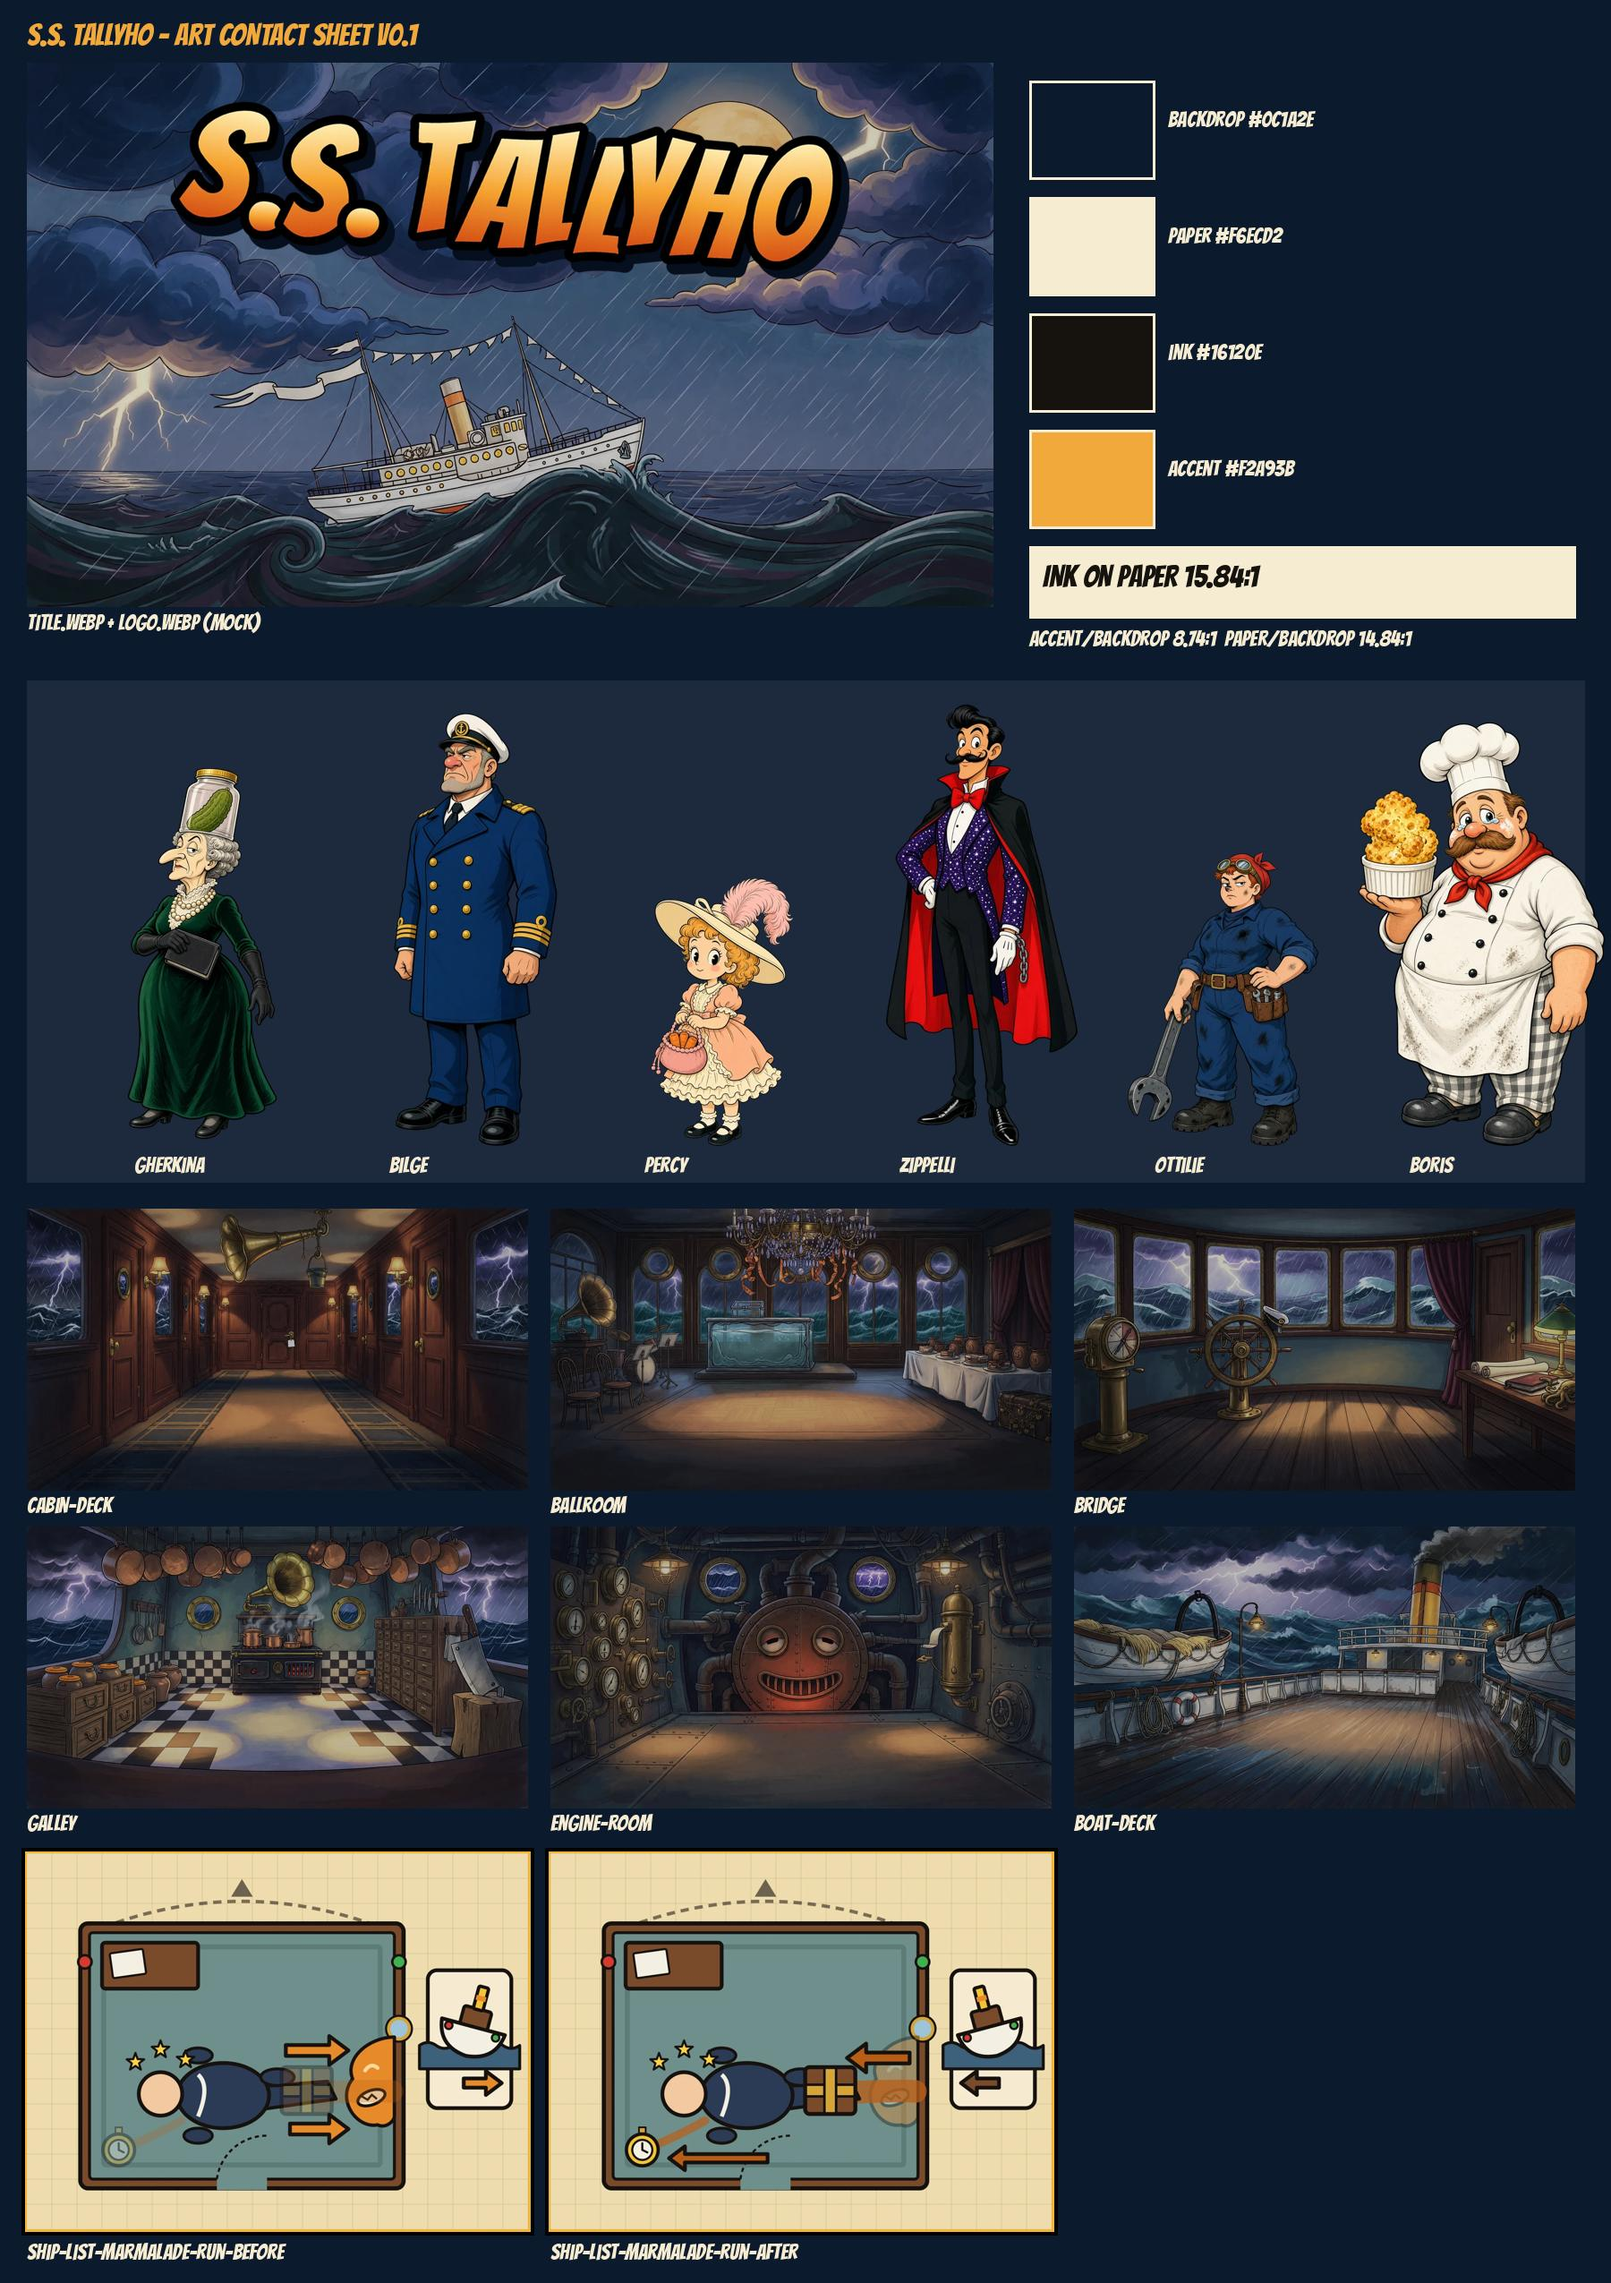
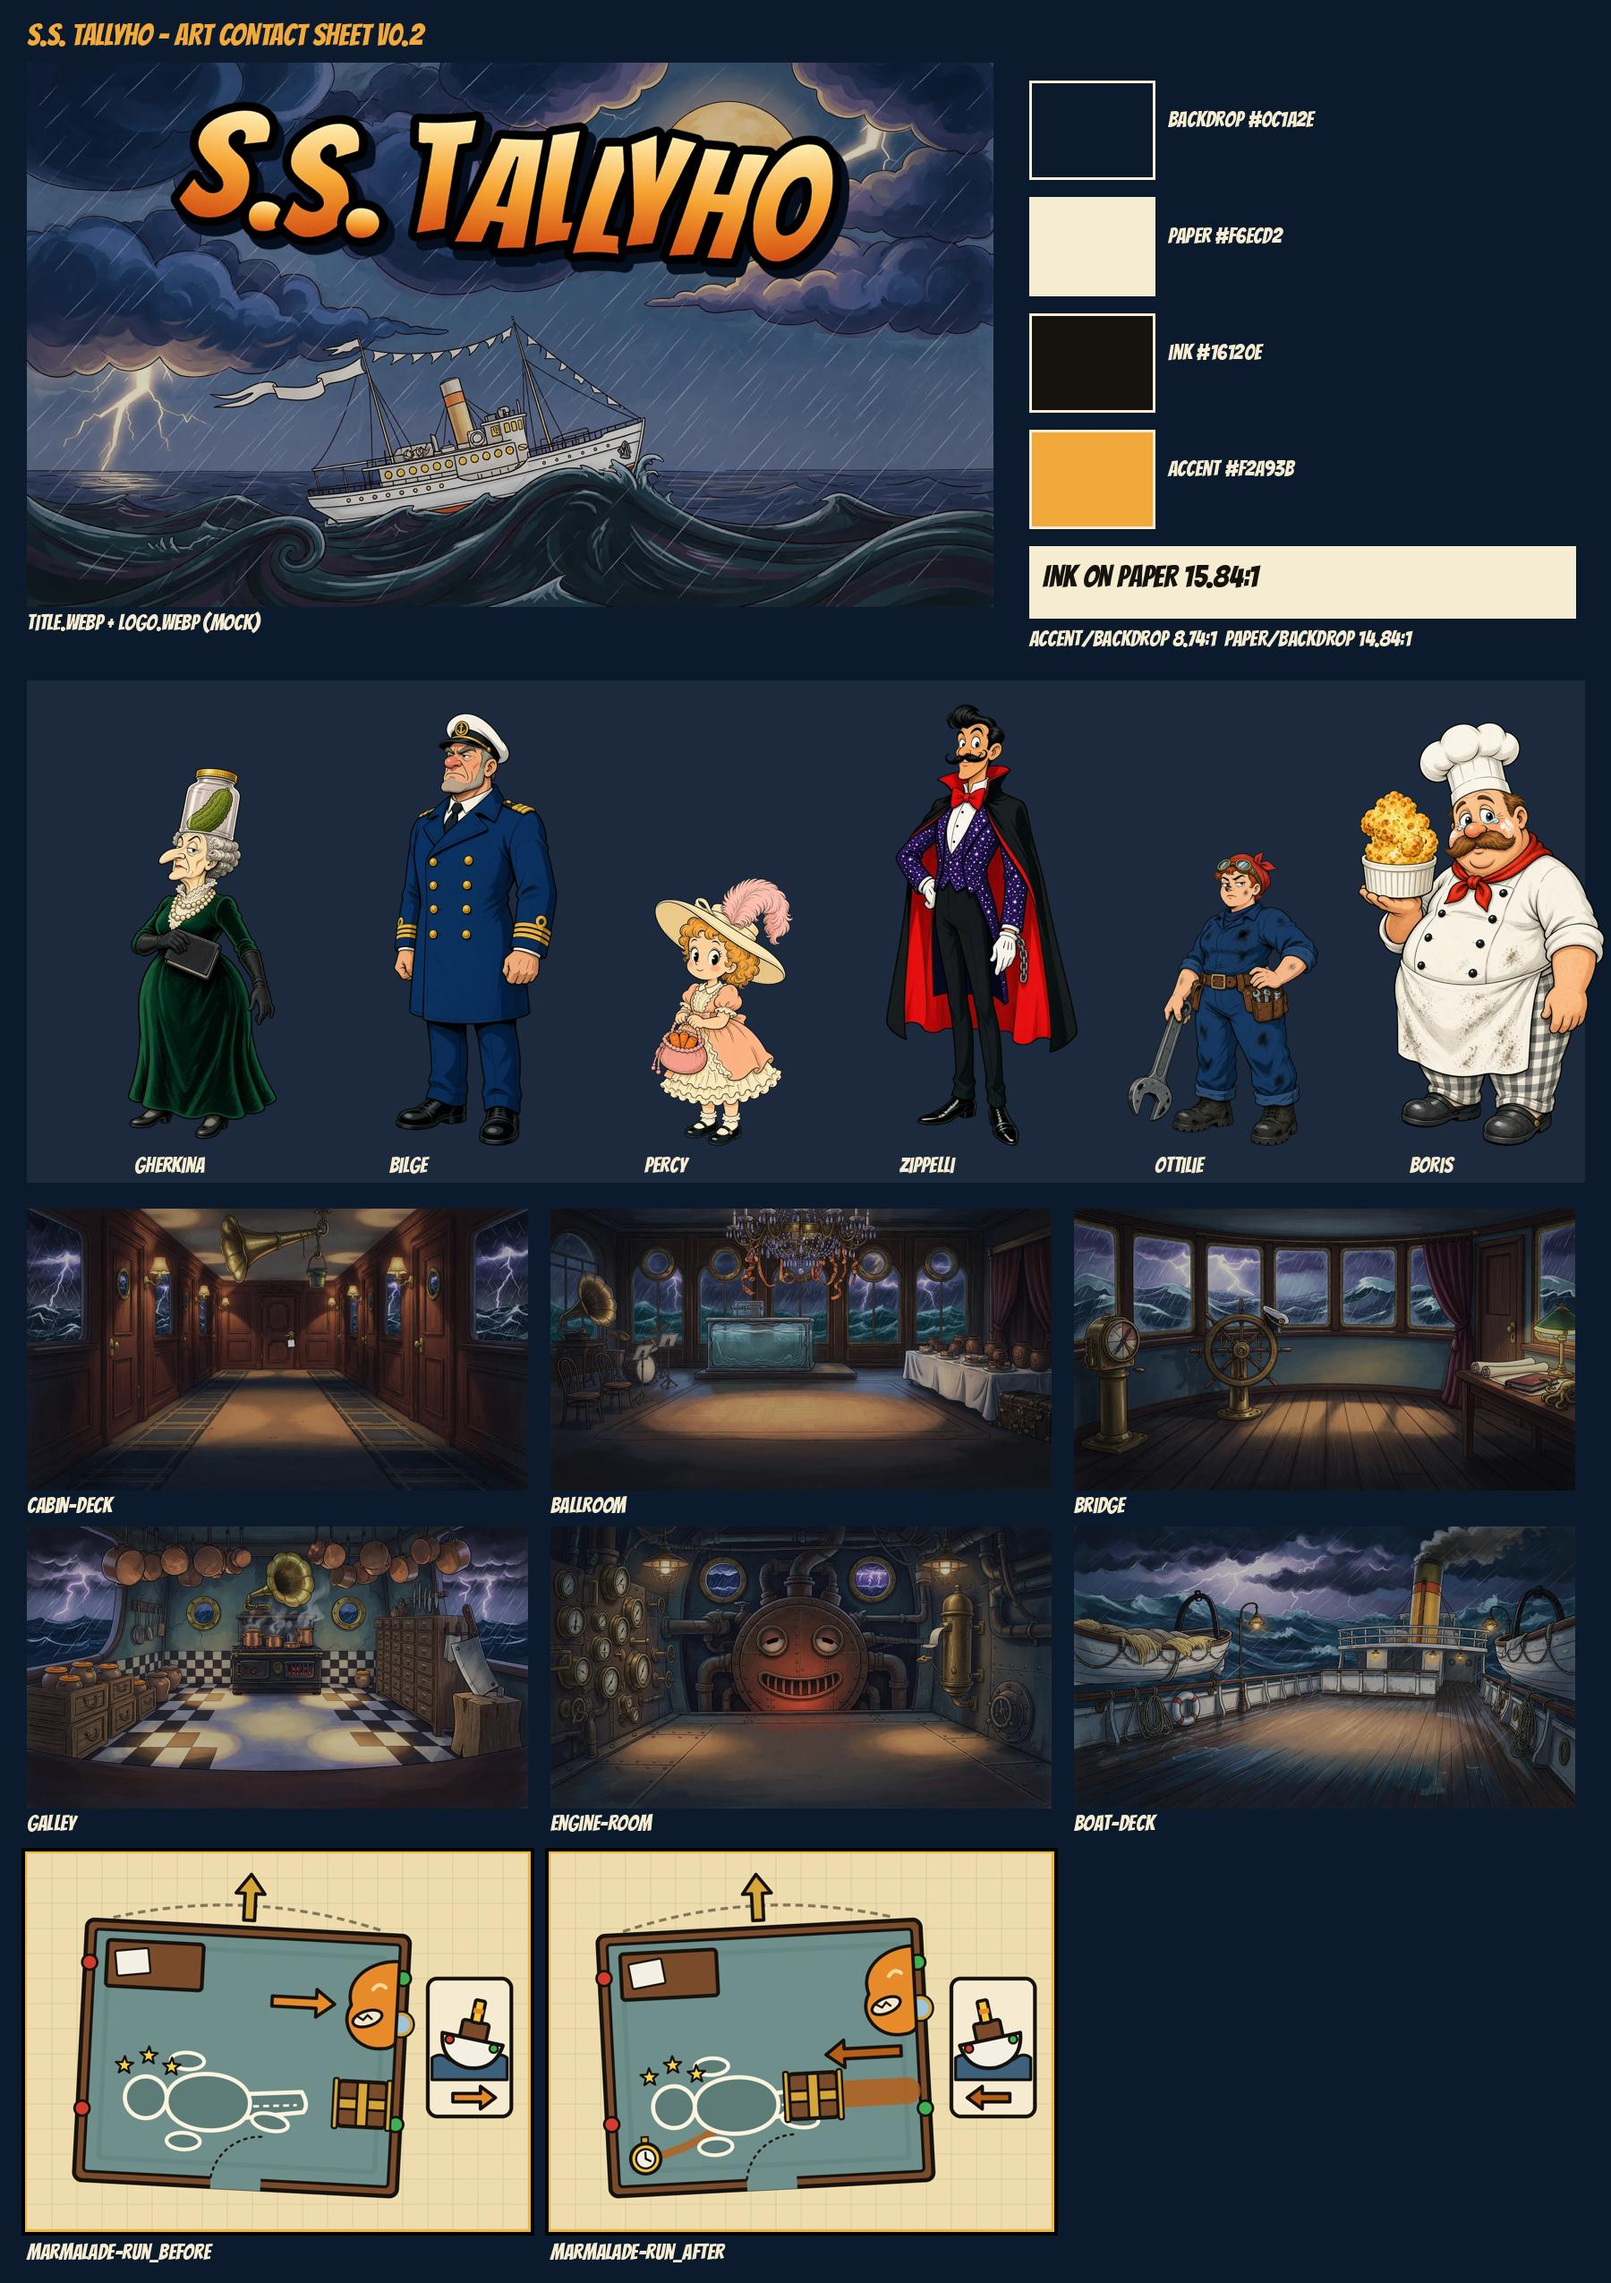
Tallyho ship-list frames v0.2 (Agatha's spec): marmalade-run_before/_after, remove ship-list-* frames, update ART_BIBLE and contact sheet

Changed region(s): [[0.0311, 0.8055, 0.3422, 0.9914], [0.3422, 0.8055, 0.6533, 0.9914], [0.2489, 0.0, 0.28, 0.031]]

diff --git a/docs/ART_BIBLE.md b/docs/ART_BIBLE.md
@@ -608,7 +608,12 @@ Chef Boris Buttercrumb, an original cartoon ship's chef: a huge, very tall and v
 
 ### 10.6 Ship-list diagram frames
 
-For the `ship-list` module (#72): `assets/cases/_tallyho/ship-list-<evidenceId>-before.webp` and `-after.webp`, 1200×900 (4:3), opaque warm chart paper, no baked text, vital content inside a 7% margin, q88 (about 36 KB each). One diagram clue: `marmalade-run`. Both frames are the same top-down plan of the stateroom as found (bow up, so port is left with a red lamp and starboard is right with a green lamp; door aft). Only the cues change: a stern-view heel gauge with a downhill arrow leans one way per frame, and the marks that the downhill direction explains are drawn at full strength while the rest are dimmed. Labels come from data. Code-drawn: `toon-drafts/tallyho/shiplist.py`.
+For the `ship-list` module (#72), v0.2 to Agatha's spec (2026-10-18): `assets/cases/_tallyho/marmalade-run_before.webp` (51 KB) and `assets/cases/_tallyho/marmalade-run_after.webp` (53 KB), 1200×900 (4:3), opaque warm chart paper, no baked text, vital content inside a 7% margin, q88. One diagram clue: `marmalade-run`. Both frames use the same top-down plan of the stateroom, so the instant toggle reads as one room changing: bow arrow up, red port lamps on the left wall, green starboard lamps on the right wall, porthole on the starboard wall, desk forward to port, door aft. The plan is turned about 3° toward the low side (clockwise for starboard, anticlockwise for port), and a stern-view heel gauge with a downhill arrow sits beside it. The body is a cream cartoon outline on the carpet (no gore, a few stars, a visible coat-tail out to starboard).
+
+- **Before** (leaning starboard): the burst jar and the marmalade pool set against the starboard wall, a downhill arrow toward that wall, and the sea chest standing against the starboard wall, clear of the coat-tail.
+- **After** (leaning port): the same pool, a long marmalade skid from the starboard wall across the carpet, the chest resting on the coat-tail, an arrow toward port, and the watch in the port corner with a short smear.
+
+Labels come from data. Code-drawn: `toon-drafts/tallyho/shiplist2.py` (v0.1 frames from #73 were replaced).
 
 ### 10.7 Generation log
 
